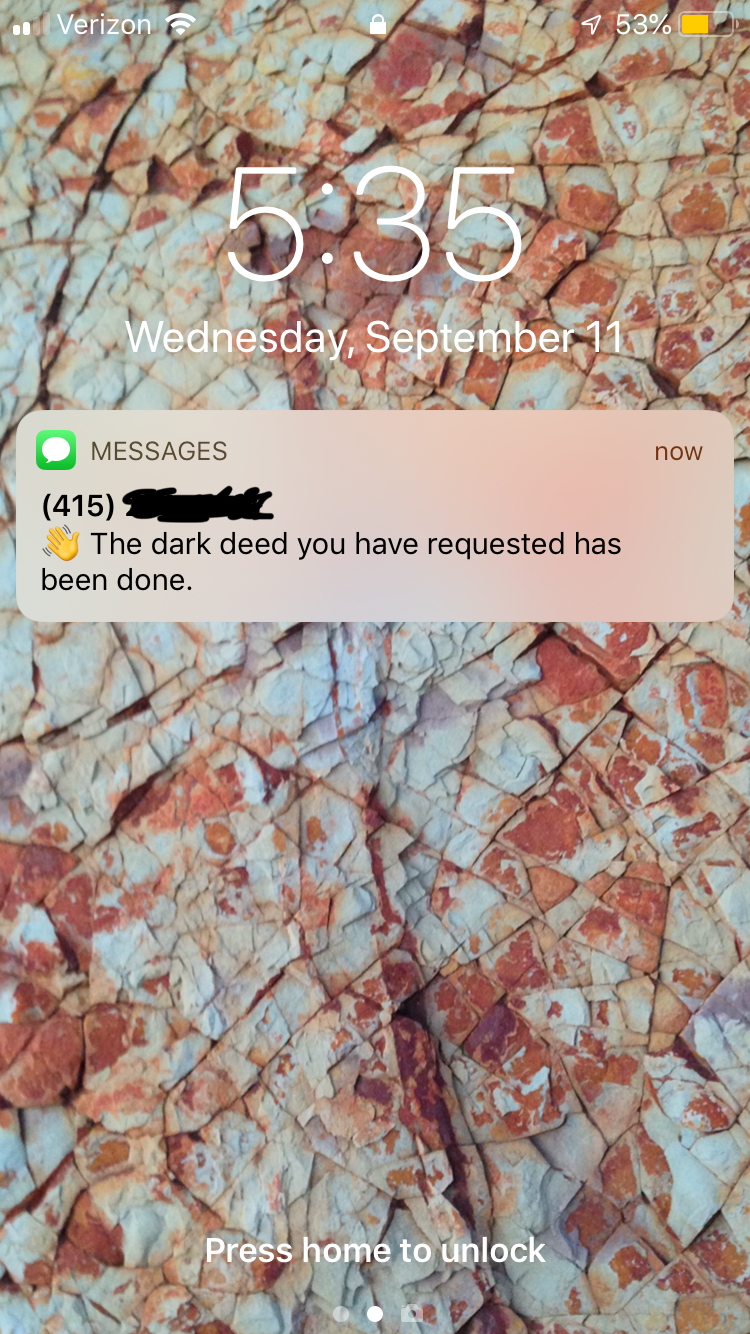
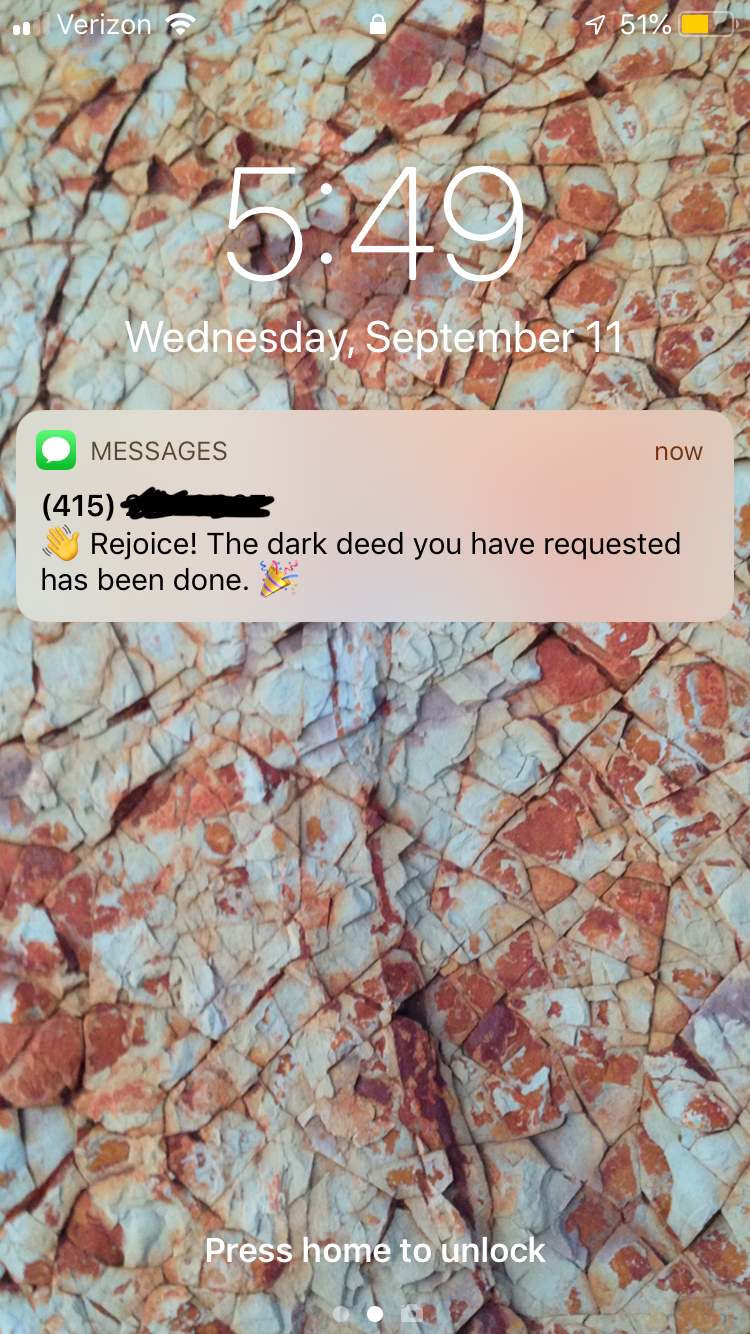
twilio post

diff --git a/_posts/2019-09-11-Using-Twilio-to-text-myself-after-long-running-jobs.md b/_posts/2019-09-11-Using-Twilio-to-text-myself-after-long-running-jobs.md
@@ -9,7 +9,7 @@ If only I could get a **text message** when the job was done. That would be cool
 So while my job was running (it still is)... I wrote this little script that I can stick in my `.RProfile` that loads a function `textme()`. The function has one purpose: text me at my phone number when my job is done running. Beauty.  
 
 
-![Victory!](img/ss.jpeg)  
+![Victory!](img/ss.jpg)  
 
 
 ## Here's the function
@@ -30,7 +30,7 @@ textme <- function(){
   # Now we can send away!
   twilio::tw_send_message(from = twilios_phone_number, 
                           to = my_phone_number, 
-                          body = "👋 The dark deed you have requested has been done.")
+                          body = "👋 Rejoice! The dark deed you have requested has been done. 🎉")
   
 }
 ```
@@ -47,4 +47,7 @@ Now if start a fresh RStudio session, all you need to do is add `textme()` to th
 
 Since my job is STILL running, I'm going to go for a walk and breathe some fresh air -- but not before asking my computer to alert me once it's done working.  
 
-Many thanks to the makers of RStudio, the {twilio} package, 
+***  
+
+
+Many thanks to the makers of RStudio, Sean Kross for the awesome [{twilio}](https://github.com/seankross/twilio) package, and computers who do our bidding everywhere.   
